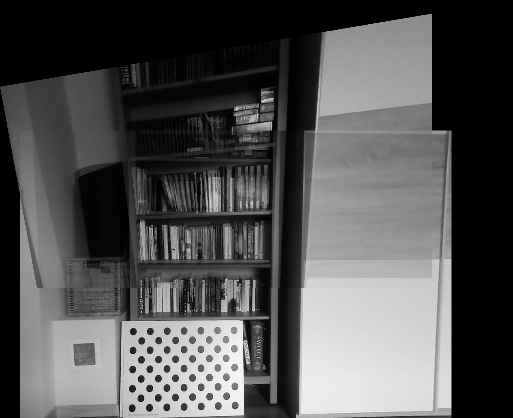
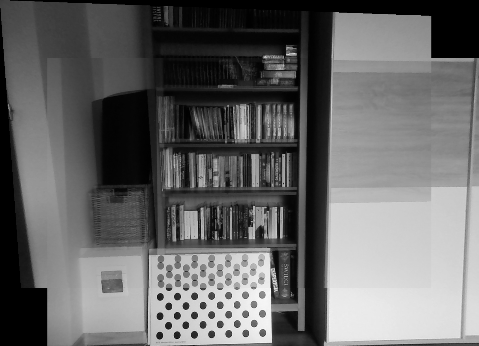
ORB update

diff --git a/task6_ORB.py b/task6_ORB.py
@@ -86,9 +86,9 @@ class ORB:
         return src_pts, dst_pts, good
 
     def stitch(self, image1, image2):
-        grey1 = cv2.cvtColor(image1, cv2.COLOR_BGR2GRAY)
-        grey2 = cv2.cvtColor(image2, cv2.COLOR_BGR2GRAY)
-        kp1, kp2, matches = self.get_knn_matches(grey1, grey2, k=2)
+        # grey1 = cv2.cvtColor(image1, cv2.COLOR_BGR2GRAY)
+        # grey2 = cv2.cvtColor(image2, cv2.COLOR_BGR2GRAY)
+        kp1, kp2, matches = self.get_knn_matches(image1, image2, k=2)
         good = [m for m, n in matches if m.distance < 0.8 * n.distance] # Lowe's
         src_pts = np.float32([ kp1[m.queryIdx].pt for m in good]).reshape(-1,1,2)
         dst_pts = np.float32([ kp2[m.trainIdx].pt for m in good]).reshape(-1,1,2)
@@ -101,7 +101,7 @@ class ORB:
         cv2.imshow("ORB: stitched", cv2.resize(stitched, (0, 0), fx=0.3, fy=0.3))
         cv2.waitKey(0)
 
-img1 = cv2.imread("output/set_3_1.jpg")
-img2 = cv2.imread("output/set_3_2.jpg")
+img1 = cv2.imread("output/set_1_1.jpg", cv2.IMREAD_GRAYSCALE)
+img2 = cv2.imread("output/set_1_2.jpg", cv2.IMREAD_GRAYSCALE)
 orb = ORB()
 orb.stitch(img1, img2)

diff --git a/task5_image_stitching.py b/task5_image_stitching.py
@@ -80,10 +80,22 @@ class ImageStitcher:
 
         im2_projected = t2p.Transformer.apply_projective_transformation(im2, matrix_with_translation, output_shape=canvas_size)
 
-        return ImageStitcher.blend(canvas_size,
+        blended = ImageStitcher.blend(canvas_size,
                             (0 - min_y, 0 - min_x),
                             im1,
                             im2_projected)
+
+        # Crop black borders
+        gray = cv2.cvtColor(blended, cv2.COLOR_BGR2GRAY) if blended.shape[2] == 3 else blended[:,:,0]
+        _, thresh = cv2.threshold(gray, 1, 255, cv2.THRESH_BINARY)
+        contours, _ = cv2.findContours(thresh, cv2.RETR_EXTERNAL, cv2.CHAIN_APPROX_SIMPLE)
+
+        if contours:
+            x, y, w, h = cv2.boundingRect(contours[0])
+            blended = blended[y:y + h, x:x + w]
+            print(blended.shape)
+        return blended
+
 
 if __name__ == "__main__":
     matrix = t2p.Transformer.find_homography(POINTS_2, POINTS_1)

diff --git a/README.md b/README.md
@@ -107,7 +107,7 @@ Part 6: ORB & RANSAC
 
 For this part, we will use the standard OpenCV instruments for everything except image stitching, as indicated. We are using KNN matches during the match search, as the standard matches has significant issues with monotonous patterns, such as with the books:
 
-[!bad keypoints](./keypoints_match.png "Example of the standard match algorithm struggling with the search")
+![bad keypoints](./keypoints_match.png "Example of the standard match algorithm struggling with the search")
 
 To improve the matches, we will set the images to grayscale during matching. The code also allows to pass greyscale images from the start, if we want to see the corresponding result.
 
@@ -115,8 +115,10 @@ The second pair of images is the most challenging due to low overlap between the
 
 The stitching results:
 
-[!stitching pair 1](./stitched1.png "First pair")
+![stitching pair 1](./stitched1.png "First pair")
 
-[!stitching pair 2](./stitched2.png "Second pair")
+![stitching pair 2](./stitched2.png "Second pair")
 
-[!stitching pair 3](./stitched3.png "Third pair")
+![stitching pair 3](./stitched3.png "Third pair")
+
+The result is comparable to the result of the manual algorithm from the previous part.
